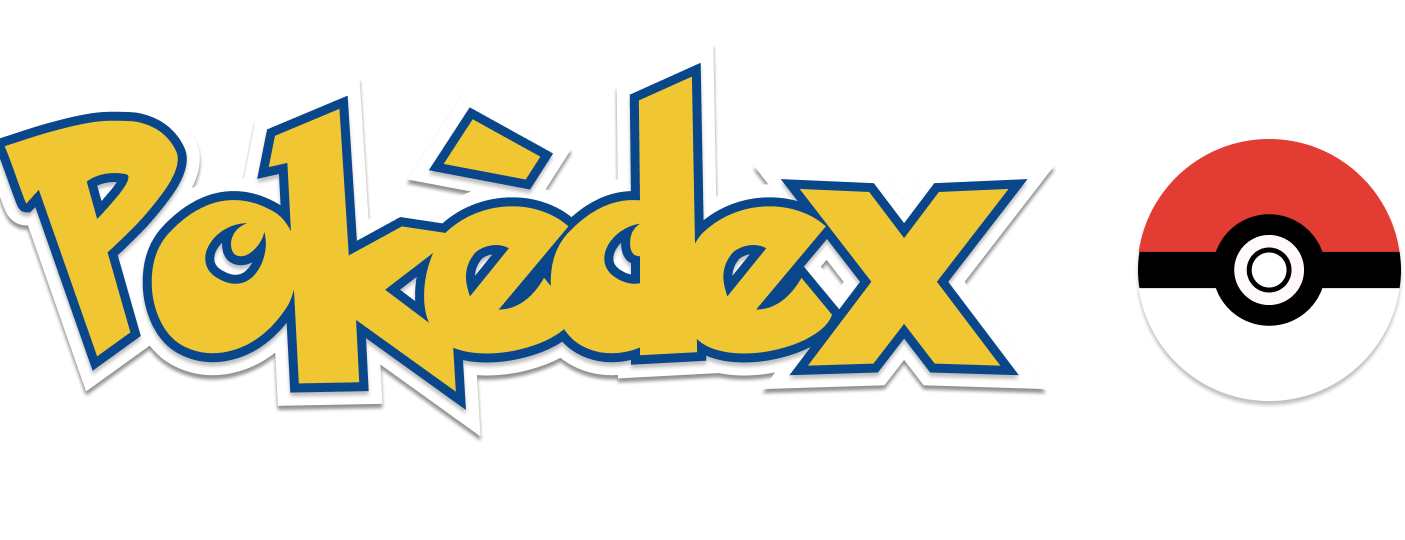
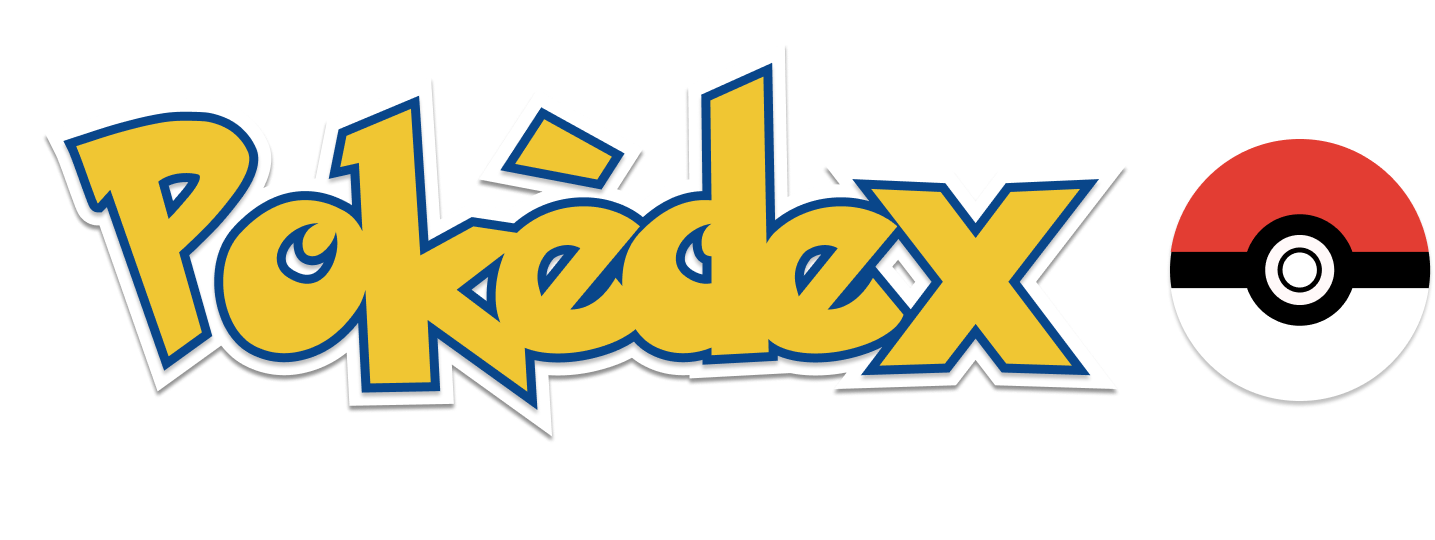
Add search header

diff --git a/navigation/index.tsx b/navigation/index.tsx
@@ -3,27 +3,41 @@
  * https://reactnavigation.org/docs/getting-started
  *
  */
-import { FontAwesome } from '@expo/vector-icons';
-import { createBottomTabNavigator } from '@react-navigation/bottom-tabs';
-import { NavigationContainer, DefaultTheme, DarkTheme } from '@react-navigation/native';
-import { createNativeStackNavigator } from '@react-navigation/native-stack';
-import * as React from 'react';
-import { ColorSchemeName, Pressable } from 'react-native';
+import { FontAwesome } from "@expo/vector-icons";
+import { createBottomTabNavigator } from "@react-navigation/bottom-tabs";
+import {
+  NavigationContainer,
+  DefaultTheme,
+  DarkTheme,
+  Theme,
+} from "@react-navigation/native";
+import { createNativeStackNavigator } from "@react-navigation/native-stack";
+import * as React from "react";
+import { ColorSchemeName, Image, Pressable } from "react-native";
 
-import Colors from '../constants/Colors';
-import useColorScheme from '../hooks/useColorScheme';
-import ModalScreen from '../screens/ModalScreen';
-import NotFoundScreen from '../screens/NotFoundScreen';
-import TabOneScreen from '../screens/TabOneScreen';
-import TabTwoScreen from '../screens/TabTwoScreen';
-import { RootStackParamList, RootTabParamList, RootTabScreenProps } from '../types';
-import LinkingConfiguration from './LinkingConfiguration';
+import Colors from "../constants/Colors";
+import useColorScheme from "../hooks/useColorScheme";
+import ModalScreen from "../screens/ModalScreen";
+import NotFoundScreen from "../screens/NotFoundScreen";
+import SearchScreen from "../screens/SearchScreen";
+import TabTwoScreen from "../screens/TabTwoScreen";
+import {
+  RootStackParamList,
+  RootTabParamList,
+  RootTabScreenProps,
+} from "../types";
+import LinkingConfiguration from "./LinkingConfiguration";
 
-export default function Navigation({ colorScheme }: { colorScheme: ColorSchemeName }) {
+export default function Navigation({
+  colorScheme,
+}: {
+  colorScheme: ColorSchemeName;
+}) {
   return (
     <NavigationContainer
       linking={LinkingConfiguration}
-      theme={colorScheme === 'dark' ? DarkTheme : DefaultTheme}>
+      theme={colorScheme === 'dark' ? DarkTheme : DefaultTheme}
+    >
       <RootNavigator />
     </NavigationContainer>
   );
@@ -38,9 +52,17 @@ const Stack = createNativeStackNavigator<RootStackParamList>();
 function RootNavigator() {
   return (
     <Stack.Navigator>
-      <Stack.Screen name="Root" component={BottomTabNavigator} options={{ headerShown: false }} />
-      <Stack.Screen name="NotFound" component={NotFoundScreen} options={{ title: 'Oops!' }} />
-      <Stack.Group screenOptions={{ presentation: 'modal' }}>
+      <Stack.Screen
+        name="Root"
+        component={BottomTabNavigator}
+        options={{ headerShown: false }}
+      />
+      <Stack.Screen
+        name="NotFound"
+        component={NotFoundScreen}
+        options={{ title: "Oops!" }}
+      />
+      <Stack.Group screenOptions={{ presentation: "modal" }}>
         <Stack.Screen name="Modal" component={ModalScreen} />
       </Stack.Group>
     </Stack.Navigator>
@@ -58,22 +80,37 @@ function BottomTabNavigator() {
 
   return (
     <BottomTab.Navigator
-      initialRouteName="TabOne"
+      initialRouteName="Search"
       screenOptions={{
         tabBarActiveTintColor: Colors[colorScheme].tint,
-      }}>
+        headerTitle: (props) => (
+          <Image
+            style={{
+              width: 120,
+              resizeMode: "contain",
+            }}
+            source={require("../assets/images/nav-icon.png")}
+          />
+        ),
+        headerStyle: {
+          backgroundColor: Colors[colorScheme].header
+        }
+        // headerShown: false,
+      }}
+    >
       <BottomTab.Screen
-        name="TabOne"
-        component={TabOneScreen}
-        options={({ navigation }: RootTabScreenProps<'TabOne'>) => ({
-          title: 'Tab One',
-          tabBarIcon: ({ color }) => <TabBarIcon name="code" color={color} />,
+        name="Search"
+        component={SearchScreen}
+        options={({ navigation }: RootTabScreenProps<"Search">) => ({
+          title: "Search",
+          tabBarIcon: ({ color }) => <TabBarIcon name="search" color={color} />,
           headerRight: () => (
             <Pressable
-              onPress={() => navigation.navigate('Modal')}
+              onPress={() => navigation.navigate("Modal")}
               style={({ pressed }) => ({
                 opacity: pressed ? 0.5 : 1,
-              })}>
+              })}
+            >
               <FontAwesome
                 name="info-circle"
                 size={25}
@@ -88,7 +125,7 @@ function BottomTabNavigator() {
         name="TabTwo"
         component={TabTwoScreen}
         options={{
-          title: 'Tab Two',
+          title: "Tab Two",
           tabBarIcon: ({ color }) => <TabBarIcon name="code" color={color} />,
         }}
       />
@@ -100,8 +137,8 @@ function BottomTabNavigator() {
  * You can explore the built-in icon families and icons on the web at https://icons.expo.fyi/
  */
 function TabBarIcon(props: {
-  name: React.ComponentProps<typeof FontAwesome>['name'];
+  name: React.ComponentProps<typeof FontAwesome>["name"];
   color: string;
 }) {
-  return <FontAwesome size={30} style={{ marginBottom: -3 }} {...props} />;
+  return <FontAwesome size={20} style={{ marginBottom: -3 }} {...props} />;
 }

diff --git a/screens/SearchScreen.tsx b/screens/SearchScreen.tsx
@@ -1,0 +1,84 @@
+import { FontAwesome } from "@expo/vector-icons";
+import * as React from "react";
+import { Image, StyleSheet, TextInput } from "react-native";
+import { SafeAreaView } from "react-native-safe-area-context";
+import EditScreenInfo from "../components/EditScreenInfo";
+import { Text, View } from "../components/Themed";
+import useColorScheme from "../hooks/useColorScheme";
+import { RootTabScreenProps } from "../types";
+
+import Colors from "../constants/Colors";
+interface PokemonEntry {
+  name: string;
+  spriteUrl: string;
+}
+
+export default function SearchScreen({
+  navigation,
+}: RootTabScreenProps<"Search">) {
+  const colorScheme = useColorScheme();
+  const [search, setSearch] = React.useState("");
+
+  return (
+    // <SafeAreaView style={{ flex: 1 }}>
+    <View style={styles.container}>
+      <View darkColor="#1F2933">
+        <View style={[styles.searchBar]}>
+          <FontAwesome
+            name="search"
+            color={Colors[colorScheme].text}
+            size={20}
+          />
+
+          <TextInput
+            style={[
+              styles.searchBar__input,
+              { color: Colors[colorScheme].text },
+            ]}
+            onChangeText={(x) => setSearch(x)}
+            placeholder="Enter pokemon name"
+            value={search}
+          />
+        </View>
+      </View>
+    </View>
+    // </SafeAreaView>
+  );
+}
+
+const styles = StyleSheet.create({
+  container: {
+    flex: 1,
+    // marginHorizontal: 20,
+    // alignItems: 'center',
+    // justifyContent: 'center',
+  },
+
+  searchBar: {
+    flexDirection: "row",
+    alignSelf: "center",
+    borderRadius: 7,
+    alignItems: "center",
+    marginVertical: 8,
+    paddingHorizontal: 12,
+  },
+  searchBar__icon: {},
+  searchBar__input: {
+    marginLeft: 16,
+    width: "70%",
+    paddingHorizontal: 14,
+    paddingVertical: 12,
+  },
+
+  card: {
+    shadowColor: "#000",
+    shadowOffset: {
+      width: 0,
+      height: 1,
+    },
+    shadowOpacity: 0.18,
+    shadowRadius: 1.0,
+
+    elevation: 1,
+  },
+});

diff --git a/App.tsx b/App.tsx
@@ -1,10 +1,10 @@
-import { StatusBar } from 'expo-status-bar';
-import React from 'react';
-import { SafeAreaProvider } from 'react-native-safe-area-context';
+import { StatusBar } from "expo-status-bar";
+import React from "react";
+import { SafeAreaProvider } from "react-native-safe-area-context";
 
-import useCachedResources from './hooks/useCachedResources';
-import useColorScheme from './hooks/useColorScheme';
-import Navigation from './navigation';
+import useCachedResources from "./hooks/useCachedResources";
+import useColorScheme from "./hooks/useColorScheme";
+import Navigation from "./navigation";
 
 export default function App() {
   const isLoadingComplete = useCachedResources();
@@ -16,7 +16,7 @@ export default function App() {
     return (
       <SafeAreaProvider>
         <Navigation colorScheme={colorScheme} />
-        <StatusBar />
+        <StatusBar style={colorScheme === "dark" ? "light" : "dark"} />
       </SafeAreaProvider>
     );
   }

diff --git a/constants/Colors.ts b/constants/Colors.ts
@@ -4,17 +4,27 @@ const tintColorDark = "#fff";
 export default {
   light: {
     text: "#000",
-    background: "#fff",
+    // background: "#fff",
+    background: "#E5E5E5",
     tint: tintColorLight,
     tabIconDefault: "#ccc",
     tabIconSelected: tintColorLight,
+    header: '#fff'
   },
   dark: {
+    // text: "#fff",
+    // background: "#000",
+    // tint: tintColorDark,
+    // tabIconDefault: "#ccc",
+    // tabIconSelected: tintColorDark,
+
+    // Cool Grey,
     text: "#fff",
-    background: "#000",
+    background: "#1D2025",
     tint: tintColorDark,
     tabIconDefault: "#ccc",
     tabIconSelected: tintColorDark,
+    header: '#1F2933'
   },
 
   type: {

diff --git a/types.tsx b/types.tsx
@@ -25,7 +25,7 @@ export type RootStackScreenProps<Screen extends keyof RootStackParamList> = Nati
 >;
 
 export type RootTabParamList = {
-  TabOne: undefined;
+  Search: undefined;
   TabTwo: undefined;
 };
 
